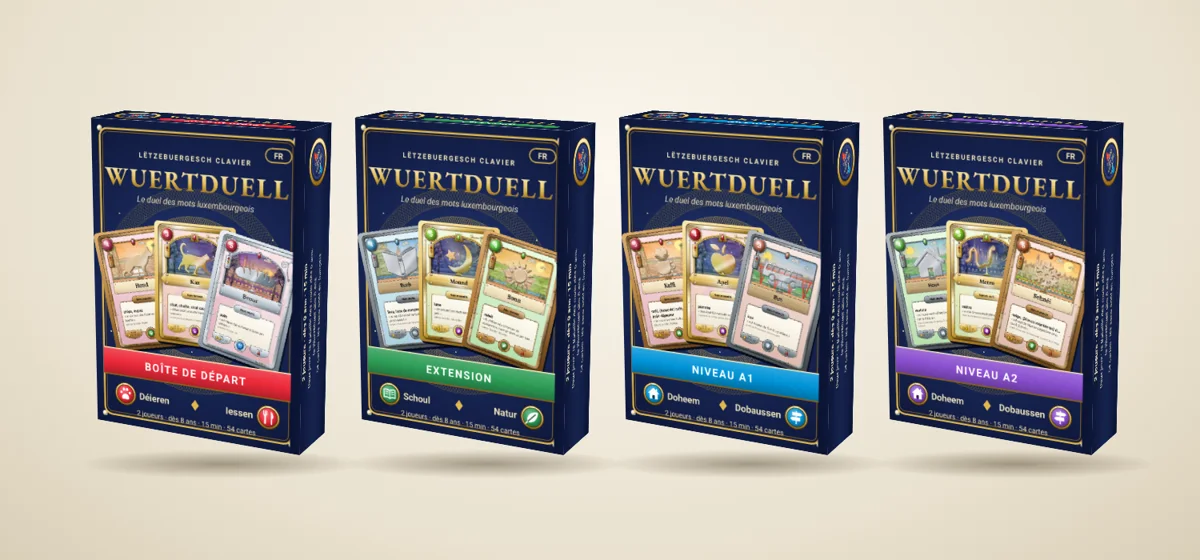
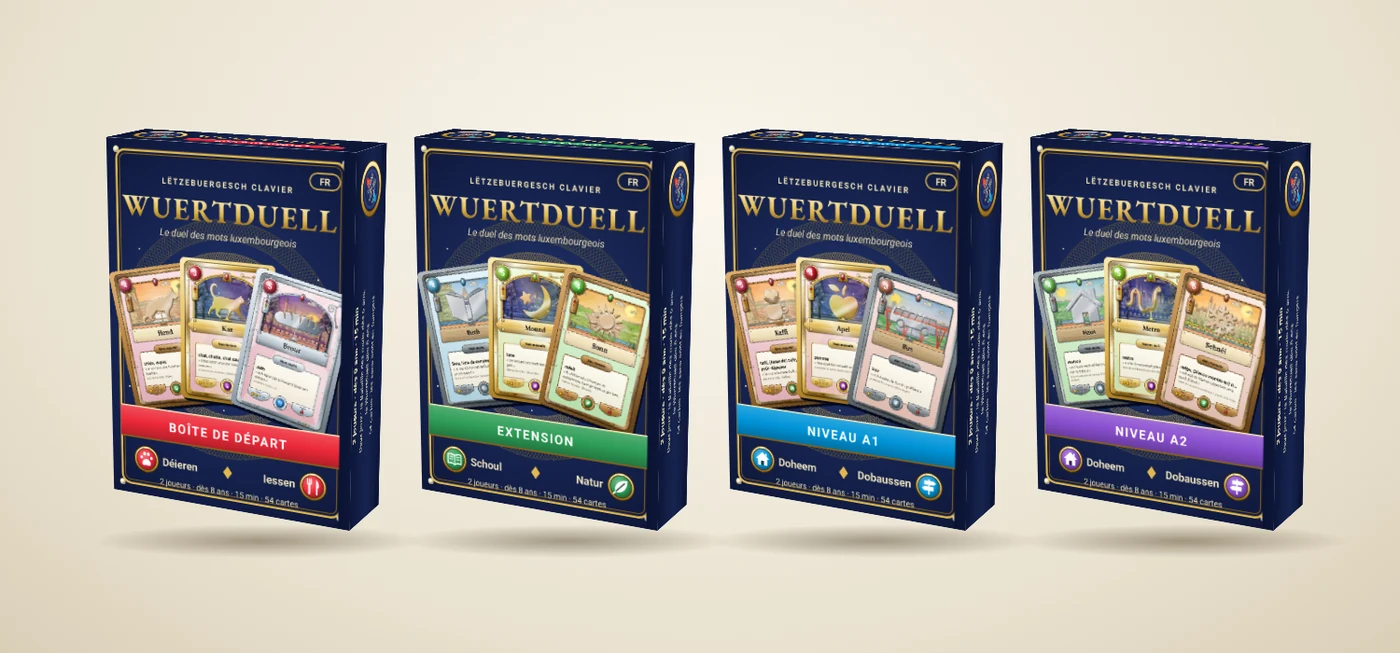
Newsletter de novembre : les photos des étuis et du présentoir en meilleure qualité, la boîte de départ de face et de dos
Claude-Session: https://claude.ai/code/session_01Co1KApbE2zjZJU9ZJG8qgA

diff --git a/docs/newsletter/2026-11.html b/docs/newsletter/2026-11.html
@@ -170,7 +170,7 @@ footer{font-size:13px; color:var(--doux); display:grid; gap:6px}
 
       <h3>Des boîtes à collectionner</h3>
       <figure>
-        <img class="large" src="2026-11/etuis.webp" alt="Maquette de quatre boîtes de cartes bleu nuit, titrées WUERTDUELL en lettres d'or, avec trois cartes en éventail sur chacune et un bandeau de couleur : rouge pour la boîte de départ, vert pour l'extension, bleu pour le Niveau A1, violet pour le Niveau A2." width="1200" height="560" loading="lazy">
+        <img class="large" src="2026-11/etuis.webp" alt="Maquette de quatre boîtes de cartes bleu nuit, titrées WUERTDUELL en lettres d'or, avec trois cartes en éventail sur chacune et un bandeau de couleur : rouge pour la boîte de départ, vert pour l'extension, bleu pour le Niveau A1, violet pour le Niveau A2." width="1400" height="653" loading="lazy">
         <figcaption>Une maquette des quatre boîtes, à quoi elles pourraient ressembler.</figcaption>
       </figure>
       <p>Chaque boîte opposerait deux familles de mots, par exemple :</p>
@@ -183,7 +183,12 @@ footer{font-size:13px; color:var(--doux); display:grid; gap:6px}
       <p>Chaque boîte se jouerait seule, dès qu'on l'ouvre, ou avec les autres. Plus une carte est rare, plus son cadre est précieux. Et un code dans la boîte ajouterait ses cartes au carnet de l'application : la collection continuerait sur le téléphone.</p>
 
       <figure>
-        <img class="ecran" src="2026-11/presentoir.webp" alt="Maquette d'un présentoir de comptoir en carton bleu nuit. En haut, un panneau WUERTDUELL, « Le duel des mots luxembourgeois », avec quatre cartes, « 2 joueurs, dès 8 ans, 15 min » et un code pour lire la règle. En bas, douze boîtes rangées en quatre colonnes de couleur : boîte de départ, extension, Niveau A1, Niveau A2." width="880" height="900" loading="lazy">
+        <img class="large" src="2026-11/etui_depart.webp" alt="Maquette de la boîte de départ, face et dos. Devant : WUERTDUELL, « Le duel des mots luxembourgeois », trois cartes (Hond, Kaz, Brout) et le bandeau rouge « Boîte de départ ». Derrière : la règle en trois étapes, la règle d'or « chaque carte jouée se lit à voix haute », le contenu de la boîte et un code pour lire la règle complète." width="1230" height="700" loading="lazy">
+        <figcaption>La boîte de départ, de face et de dos : la règle tient au dos de la boîte.</figcaption>
+      </figure>
+
+      <figure>
+        <img class="ecran" src="2026-11/presentoir.webp" alt="Maquette d'un présentoir de comptoir en carton bleu nuit. En haut, un panneau WUERTDUELL, « Le duel des mots luxembourgeois », avec quatre cartes, « 2 joueurs, dès 8 ans, 15 min » et un code pour lire la règle. En bas, douze boîtes rangées en quatre colonnes de couleur : boîte de départ, extension, Niveau A1, Niveau A2." width="900" height="920" loading="lazy">
         <figcaption>Et en magasin ou sur un stand, un présentoir de comptoir. Une maquette, là encore.</figcaption>
       </figure>
 
